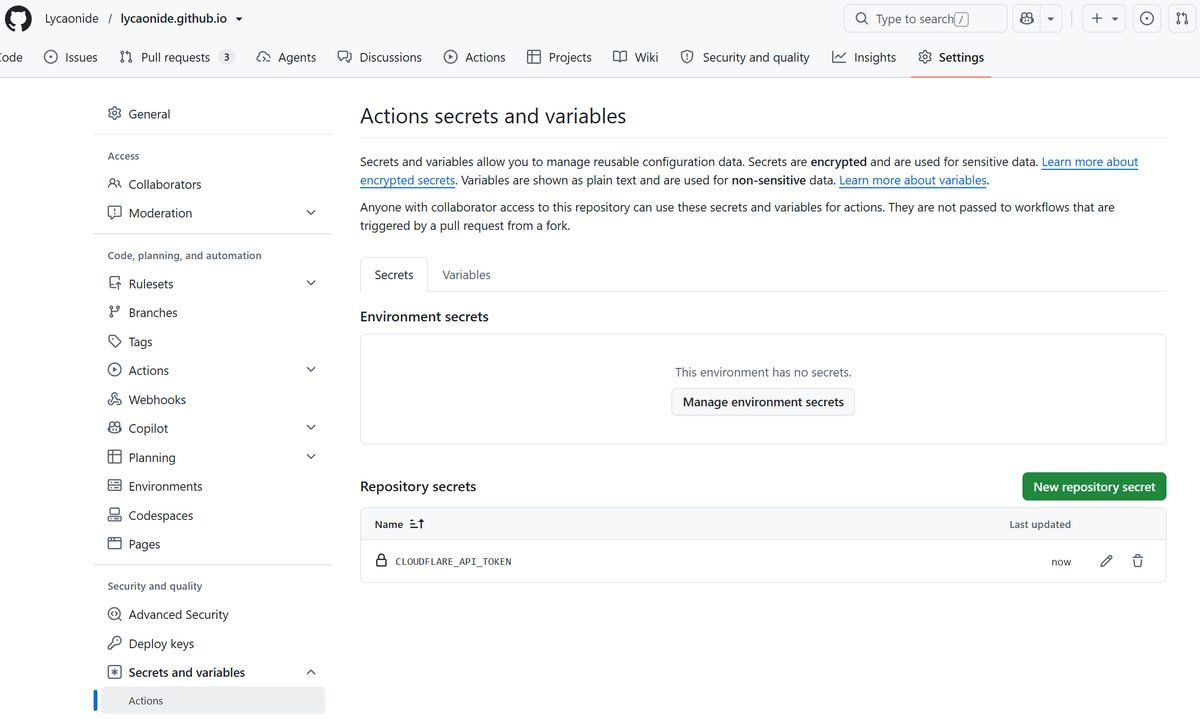
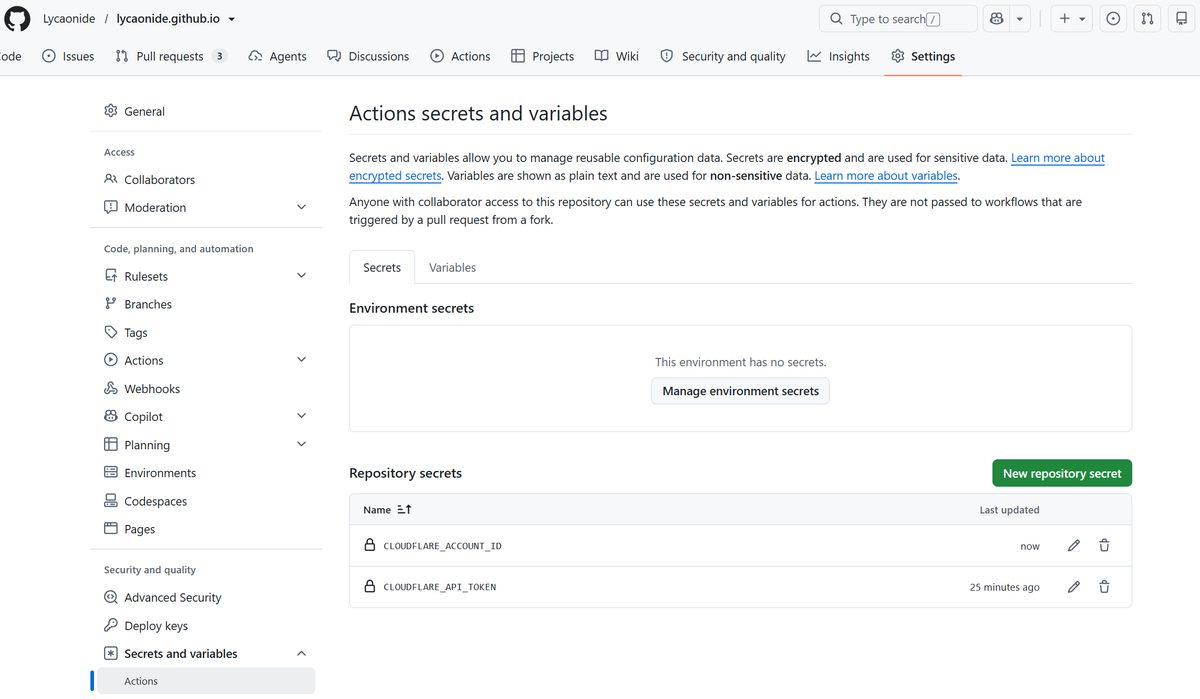
docs: 换两个secret齐配图, 补账号ID查找方法和token填值说明

diff --git a/src/content/posts/从Hexo迁移到Astro部署记录.md b/src/content/posts/从Hexo迁移到Astro部署记录.md
@@ -468,7 +468,9 @@ jobs:
 
 ![GitHub Secrets 配置界面](/assets/blog-migrate/github-secrets.jpg)
 
-> 注意：**Name 必须和 workflow 里引用的一致**，不能随便起名——上图里填的就是 `CLOUDFLARE_API_TOKEN`（名字对不上，workflow 读不到，CF 部署会一直失败）。
+> 注意：**Name 必须和 workflow 里引用的一致**，不能随便起名——上图就是两个 secret 都配好后的样子（名字对不上，workflow 读不到，CF 部署会一直失败）。
+
+> 两个值分别填什么：`CLOUDFLARE_API_TOKEN` 填你创建的那个新 token 值（创建时只显示一次，Roll 过就填新值）；`CLOUDFLARE_ACCOUNT_ID` 填账号 ID——不知道在哪看？打开 Cloudflare 控制台任意页面（首页 / Workers & Pages 都行），看地址栏 `dash.cloudflare.com/` 后面第一段，就是账号 ID。
 
 配好之后，每次 `git push` 会自动构建并同时部署到 GitHub Pages 和 Cloudflare Pages。
 
